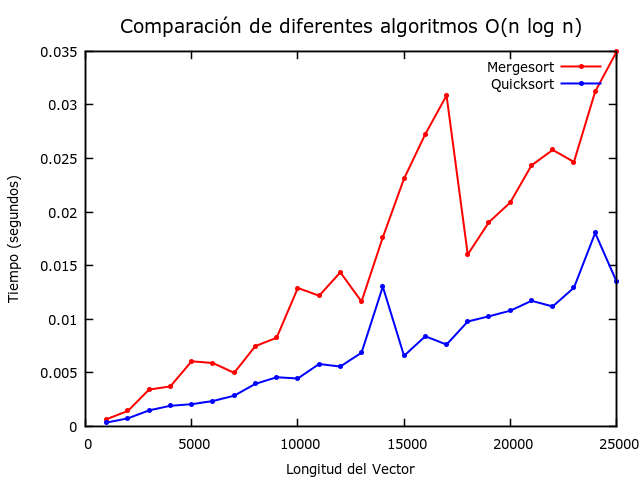
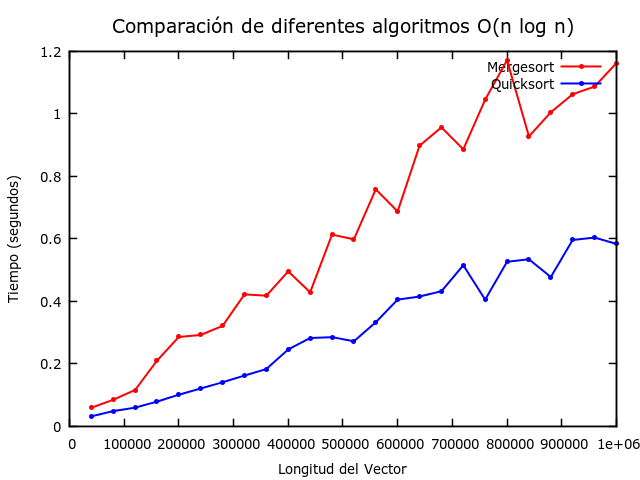
Changed (again) nlogn tables

diff --git a/Practica1/Code/TablasJuanLuis/ordenacion.md b/Practica1/Code/TablasJuanLuis/ordenacion.md
@@ -2,28 +2,28 @@
 
 | Tamaño del Vector | Burbuja | Seleccion | Insercion | Mergesort | Quicksort |
 |-------------------|---------|-----------|-----------|-----------|-----------|
-|1000|0.013861|0.004447|0.010846|0.000664|0.000344|
-|2000|0.052655|0.024817|0.030747|0.001434|0.00074|
-|3000|0.127|0.046012|0.072064|0.003433|0.001486|
-|4000|0.233107|0.074991|0.14351|0.003723|0.001915|
-|5000|0.326212|0.114012|0.18515|0.006067|0.002064|
-|6000|0.442819|0.165739|0.269959|0.005904|0.002358|
-|7000|0.599074|0.221927|0.362497|0.004986|0.002854|
-|8000|0.784265|0.2941|0.461005|0.007484|0.003958|
-|9000|0.996047|0.36656|0.594113|0.008257|0.004578|
-|10000|1.2214|0.45315|0.733702|0.01291|0.004463|
-|11000|1.49208|0.552611|0.884262|0.012187|0.005814|
-|12000|1.77943|0.647282|1.07357|0.014366|0.005576|
-|13000|2.08895|0.761941|1.26515|0.011648|0.006874|
-|14000|2.4548|0.877009|1.43688|0.017642|0.013039|
-|15000|2.79191|1.00791|1.695|0.02312|0.006576|
-|16000|3.1764|1.14831|1.89686|0.027275|0.0084|
-|17000|3.5927|1.30411|2.13|0.030876|0.007627|
-|18000|4.00642|1.45901|2.4005|0.016038|0.009779|
-|19000|4.4724|1.62668|2.6646|0.019058|0.010265|
-|20000|4.95279|1.80517|3.0421|0.020895|0.010788|
-|21000|5.41572|1.99686|3.26471|0.024359|0.011714|
-|22000|6.03503|2.18778|3.60568|0.025799|0.011187|
-|23000|6.58244|2.39449|3.93392|0.024676|0.01294|
-|24000|7.13395|2.6038|4.27395|0.03125|0.018049|
-|25000|7.7073|2.83965|4.59284|0.034949|0.013528|
+|1000|0.013861|0.004447|0.010846|0.000961|0.00039|
+|2000|0.052655|0.024817|0.030747|0.001696|0.008876|
+|3000|0.127|0.046012|0.072064|0.009297|0.001323|
+|4000|0.233107|0.074991|0.14351|0.003655|0.001882|
+|5000|0.326212|0.114012|0.18515|0.005523|0.005961|
+|6000|0.442819|0.165739|0.269959|0.01538|0.002763|
+|7000|0.599074|0.221927|0.362497|0.014238|0.010677|
+|8000|0.784265|0.2941|0.461005|0.017431|0.00463|
+|9000|0.996047|0.36656|0.594113|0.020894|0.010894|
+|10000|1.2214|0.45315|0.733702|0.01123|0.006743|
+|11000|1.49208|0.552611|0.884262|0.012717|0.010504|
+|12000|1.77943|0.647282|1.07357|0.015089|0.01281|
+|13000|2.08895|0.761941|1.26515|0.012712|0.014408|
+|14000|2.4548|0.877009|1.43688|0.013481|0.013323|
+|15000|2.79191|1.00791|1.695|0.015309|0.009076|
+|16000|3.1764|1.14831|1.89686|0.016878|0.008292|
+|17000|3.5927|1.30411|2.13|0.018465|0.016317|
+|18000|4.00642|1.45901|2.4005|0.019754|0.00937|
+|19000|4.4724|1.62668|2.6646|0.023168|0.015159|
+|20000|4.95279|1.80517|3.0421|0.024249|0.010224|
+|21000|5.41572|1.99686|3.26471|0.032787|0.022666|
+|22000|6.03503|2.18778|3.60568|0.044696|0.020303|
+|23000|6.58244|2.39449|3.93392|0.049775|0.016064|
+|24000|7.13395|2.6038|4.27395|0.038288|0.035073|
+|25000|7.7073|2.83965|4.59284|0.042087|0.013469|

diff --git a/Practica1/Code/TablasJuanLuis/nlogn.md b/Practica1/Code/TablasJuanLuis/nlogn.md
@@ -2,28 +2,28 @@
 
 | Tamaño del Vector | Mergesort | Quicksort |
 |-------------------|-----------|-----------|
-|1000|0.000662|0.000345|
-|2000|0.001448|0.000779|
-|3000|0.003637|0.001393|
-|4000|0.003948|0.00179|
-|5000|0.004582|0.001982|
-|6000|0.007271|0.002347|
-|7000|0.006139|0.002728|
-|8000|0.007702|0.003935|
-|9000|0.008766|0.004536|
-|10000|0.010229|0.004161|
-|11000|0.015097|0.005538|
-|12000|0.013509|0.005506|
-|13000|0.010748|0.006644|
-|14000|0.013553|0.006976|
-|15000|0.012909|0.014324|
-|16000|0.014743|0.010166|
-|17000|0.016073|0.008398|
-|18000|0.019331|0.008718|
-|19000|0.019898|0.009876|
-|20000|0.022043|0.013775|
-|21000|0.023034|0.024567|
-|22000|0.024951|0.017433|
-|23000|0.023402|0.017789|
-|24000|0.029161|0.01096|
-|25000|0.031644|0.01294|
+|40000|0.0593|0.03168|
+|80000|0.084677|0.048686|
+|120000|0.116201|0.059459|
+|160000|0.209708|0.078898|
+|200000|0.286061|0.100924|
+|240000|0.292411|0.120799|
+|280000|0.321199|0.140771|
+|320000|0.422234|0.162305|
+|360000|0.418084|0.183262|
+|400000|0.495654|0.245822|
+|440000|0.428691|0.282615|
+|480000|0.613447|0.285377|
+|520000|0.598607|0.272054|
+|560000|0.758394|0.33267|
+|600000|0.687631|0.405412|
+|640000|0.898055|0.41538|
+|680000|0.956717|0.432076|
+|720000|0.886481|0.515262|
+|760000|1.04544|0.405374|
+|800000|1.17159|0.526586|
+|840000|0.927828|0.53463|
+|880000|1.00496|0.477725|
+|920000|1.06284|0.596431|
+|960000|1.0871|0.6042|
+|1000000|1.16244|0.583711|
